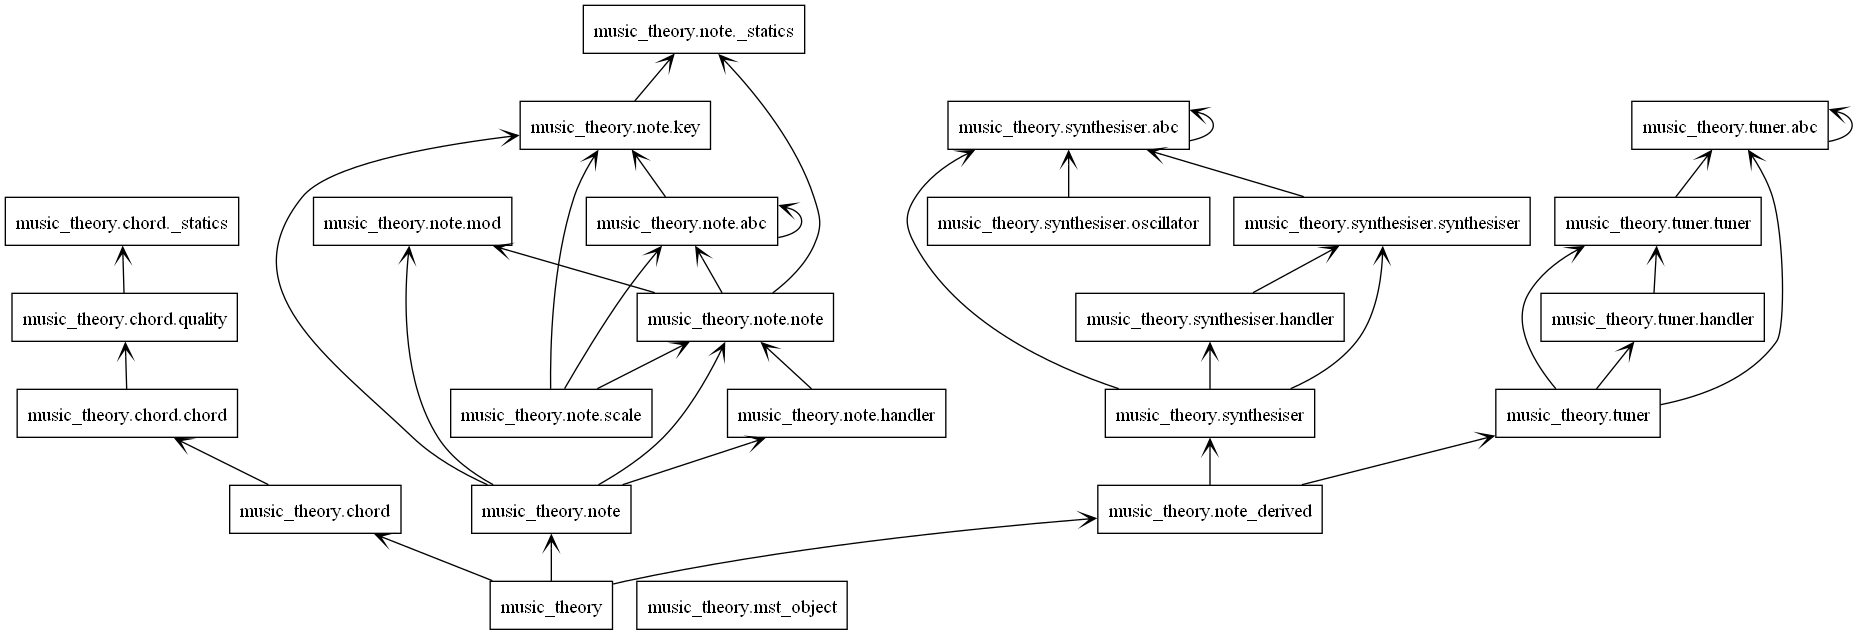
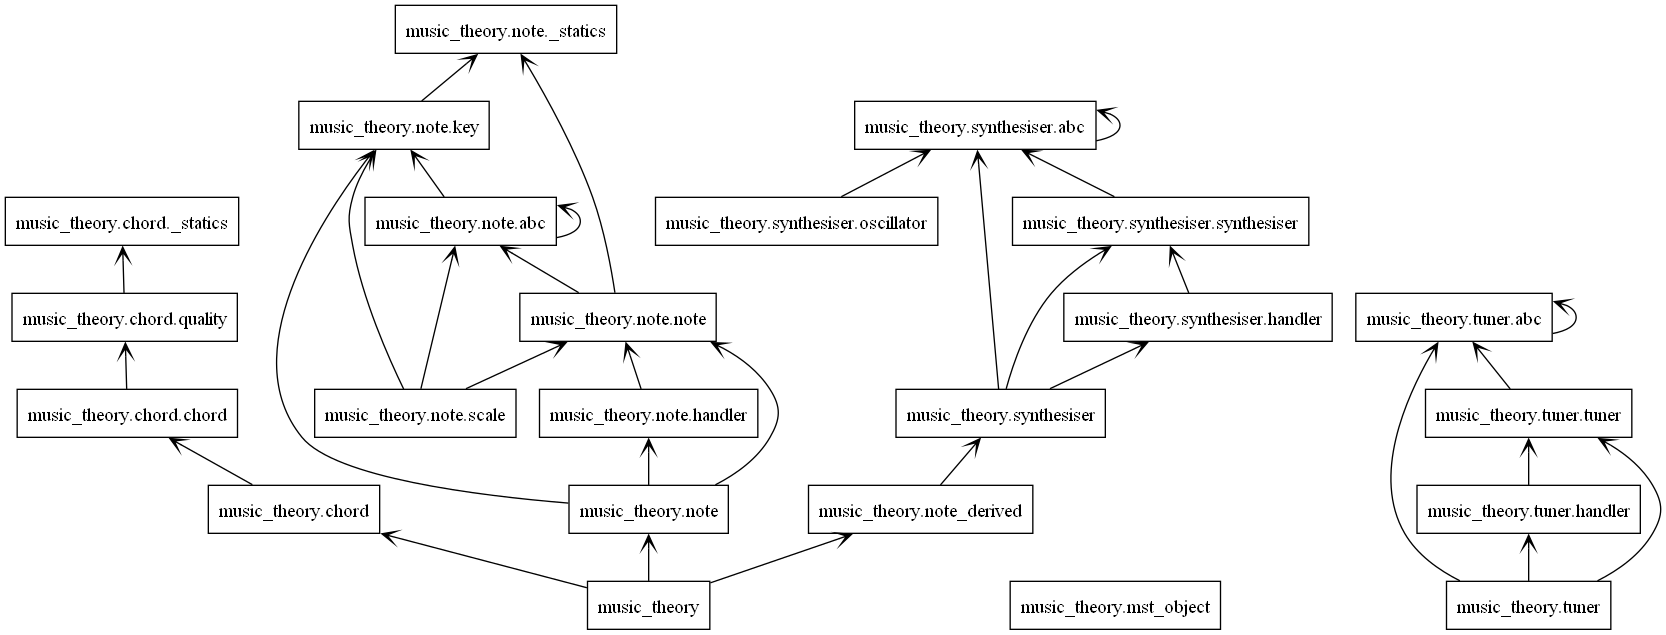
add mst object as abc class and fix all relationship

diff --git a/music_theory/note/handler.py b/music_theory/note/handler.py
@@ -1,15 +1,16 @@
 import typing as t
-from .mod import NoteMod
 from .note import Note
+
+from ..mst_object import MstModObject
 
 class NoteHandlerProxy(Note):
     """
     """
 
     @property
-    def mods(self) -> dict[str, NoteMod]:
+    def mods(self) -> dict[str, MstModObject]:
         return dict(
-            [ [k, v] for k, v in self.__dict__.items() if isinstance(v, NoteMod)]
+            [ [k, v] for k, v in self.__dict__.items() if isinstance(v, MstModObject)]
         )
 
     def __add__(self, other: int) -> t.Self:

diff --git a/music_theory/synthesiser/abc.py b/music_theory/synthesiser/abc.py
@@ -1,8 +1,8 @@
-import os, datetime, wave, pyaudio
 from abc import ABCMeta, abstractmethod
+import os, datetime, wave, pyaudio
 import numpy as np
 
-from ..note import NoteMod
+from ..mst_object import MstModObject
 
 
 class Oscillator(metaclass=ABCMeta):
@@ -27,7 +27,7 @@ class Modulator(metaclass=ABCMeta):
     pass
 
 
-class SynthesiserObject(NoteMod, metaclass=ABCMeta):
+class SynthesiserObject(MstModObject, metaclass=ABCMeta):
 
     osi: Oscillator
     fil: Filter

diff --git a/music_theory/chord/chord.py b/music_theory/chord/chord.py
@@ -3,8 +3,9 @@ from __future__ import annotations
 import re
 import typing as t
 
-from ..note import NoteBase
 from .quality import Quality
+from ..note import NoteBase
+from ..mst_object import MstObject
 
 
 notename_ptn = re.compile(r"[A-Z][#b]?")
@@ -13,7 +14,7 @@ tension_ptn = re.compile(r"([-+b#]?9|[+#]?11|[-b]?13)+")
 onchord_ptn = re.compile(r"\/[A-Z][#b]?")
 
 
-class Chord:
+class Chord(MstObject):
 
     def __init__(self, name: str):
         self._name = name

diff --git a/music_theory/tuner/abc.py b/music_theory/tuner/abc.py
@@ -1,13 +1,13 @@
 from abc import ABCMeta, abstractmethod
 
-from ..note import NoteMod
+from ..mst_object import MstModObject
 
 
-class TunerObject(NoteMod, metaclass=ABCMeta):
+class TunerObject(MstModObject, metaclass=ABCMeta):
 
     def __init__(self, root: int):
         self.root: int = root
-    
+
     @abstractmethod
     def hz(self, note_number: int) -> float:
         pass

diff --git a/music_theory/mst_object.py b/music_theory/mst_object.py
@@ -1,0 +1,21 @@
+"""
+MstObject
+---------
+
+Abstract base class for MST objects
+  1. Provide a variety of output formats
+  2. Clearly distinguish it from other objects
+"""
+
+
+from abc import ABCMeta
+
+class MstObject(metaclass=ABCMeta):
+    """
+    Abstract base class for MST objects
+    """
+
+
+class MstModObject(MstObject):
+    """
+    """

diff --git a/music_theory/note/abc.py b/music_theory/note/abc.py
@@ -1,8 +1,10 @@
 from abc import ABCMeta, abstractproperty
 from .key import Key
 
+from ..mst_object import MstObject
 
-class Scale(metaclass=ABCMeta):
+
+class Scale(MstObject, metaclass=ABCMeta):
 
     def __init__(self, key: str|Key):
         self.key = key if isinstance(key, Key) else Key(key)

diff --git a/music_theory/note/note.py b/music_theory/note/note.py
@@ -4,8 +4,10 @@ import typing as t
 from .abc import Scale
 from ._statics import NOTENAME_TO_PITCH, PITCH_TO_NOTENAME, ALL_NOTENAME
 
+from ..mst_object import MstObject
 
-class NoteBase:
+
+class NoteBase(MstObject):
 
     def __init__(self, pitchclass: int, **kwargs) -> None:
 

diff --git a/music_theory/note_derived.py b/music_theory/note_derived.py
@@ -1,8 +1,7 @@
-from .tuner import TunerHandler
 from .synthesiser import SynthesiserHandler
 
 
-class Note_(SynthesiserHandler, TunerHandler):
+class Note_(SynthesiserHandler):
     """
     Data to provide many ways of expressing things about note
 

diff --git a/music_theory/note/__init__.py b/music_theory/note/__init__.py
@@ -26,5 +26,4 @@ from .note import Note, NoteBase
 from .key import Key
 from . import scale
 
-from .mod import NoteMod
 from .handler import NoteHandlerProxy
